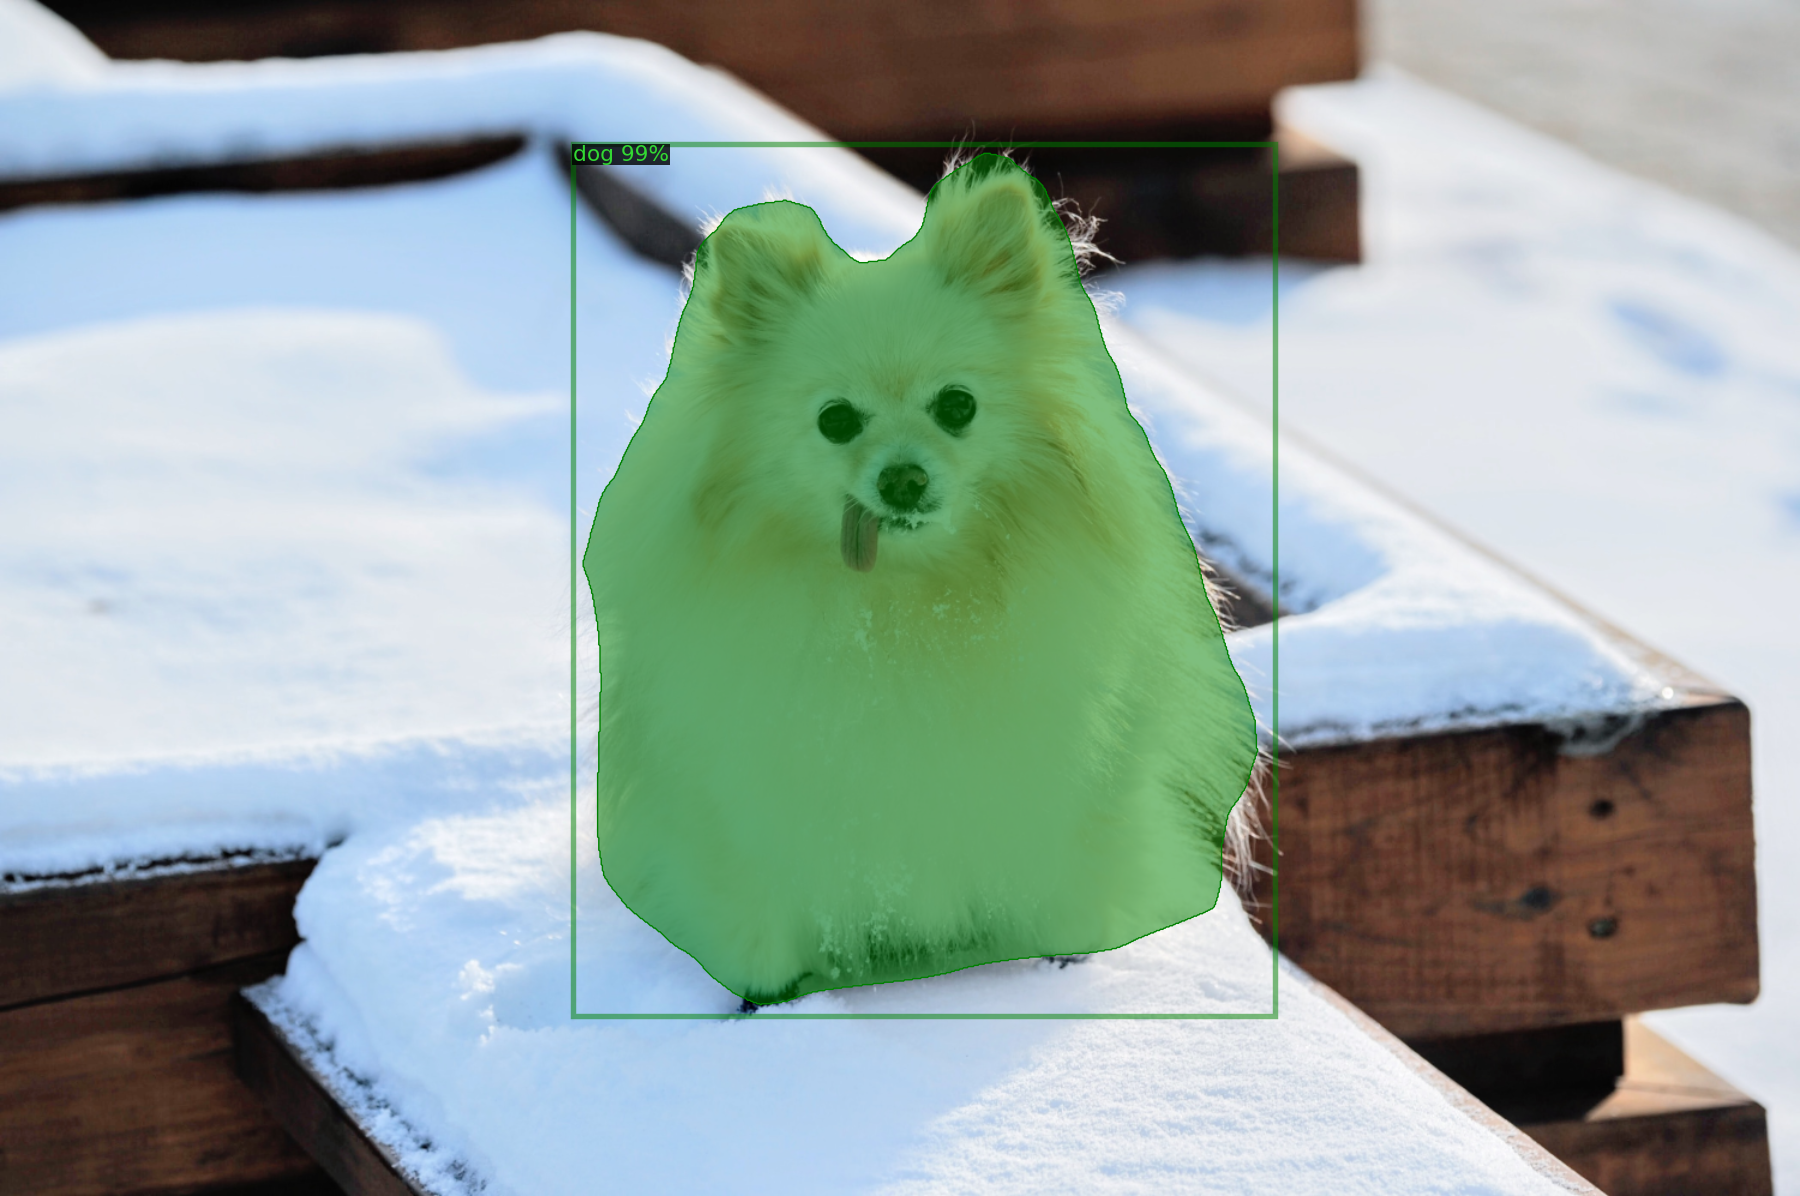
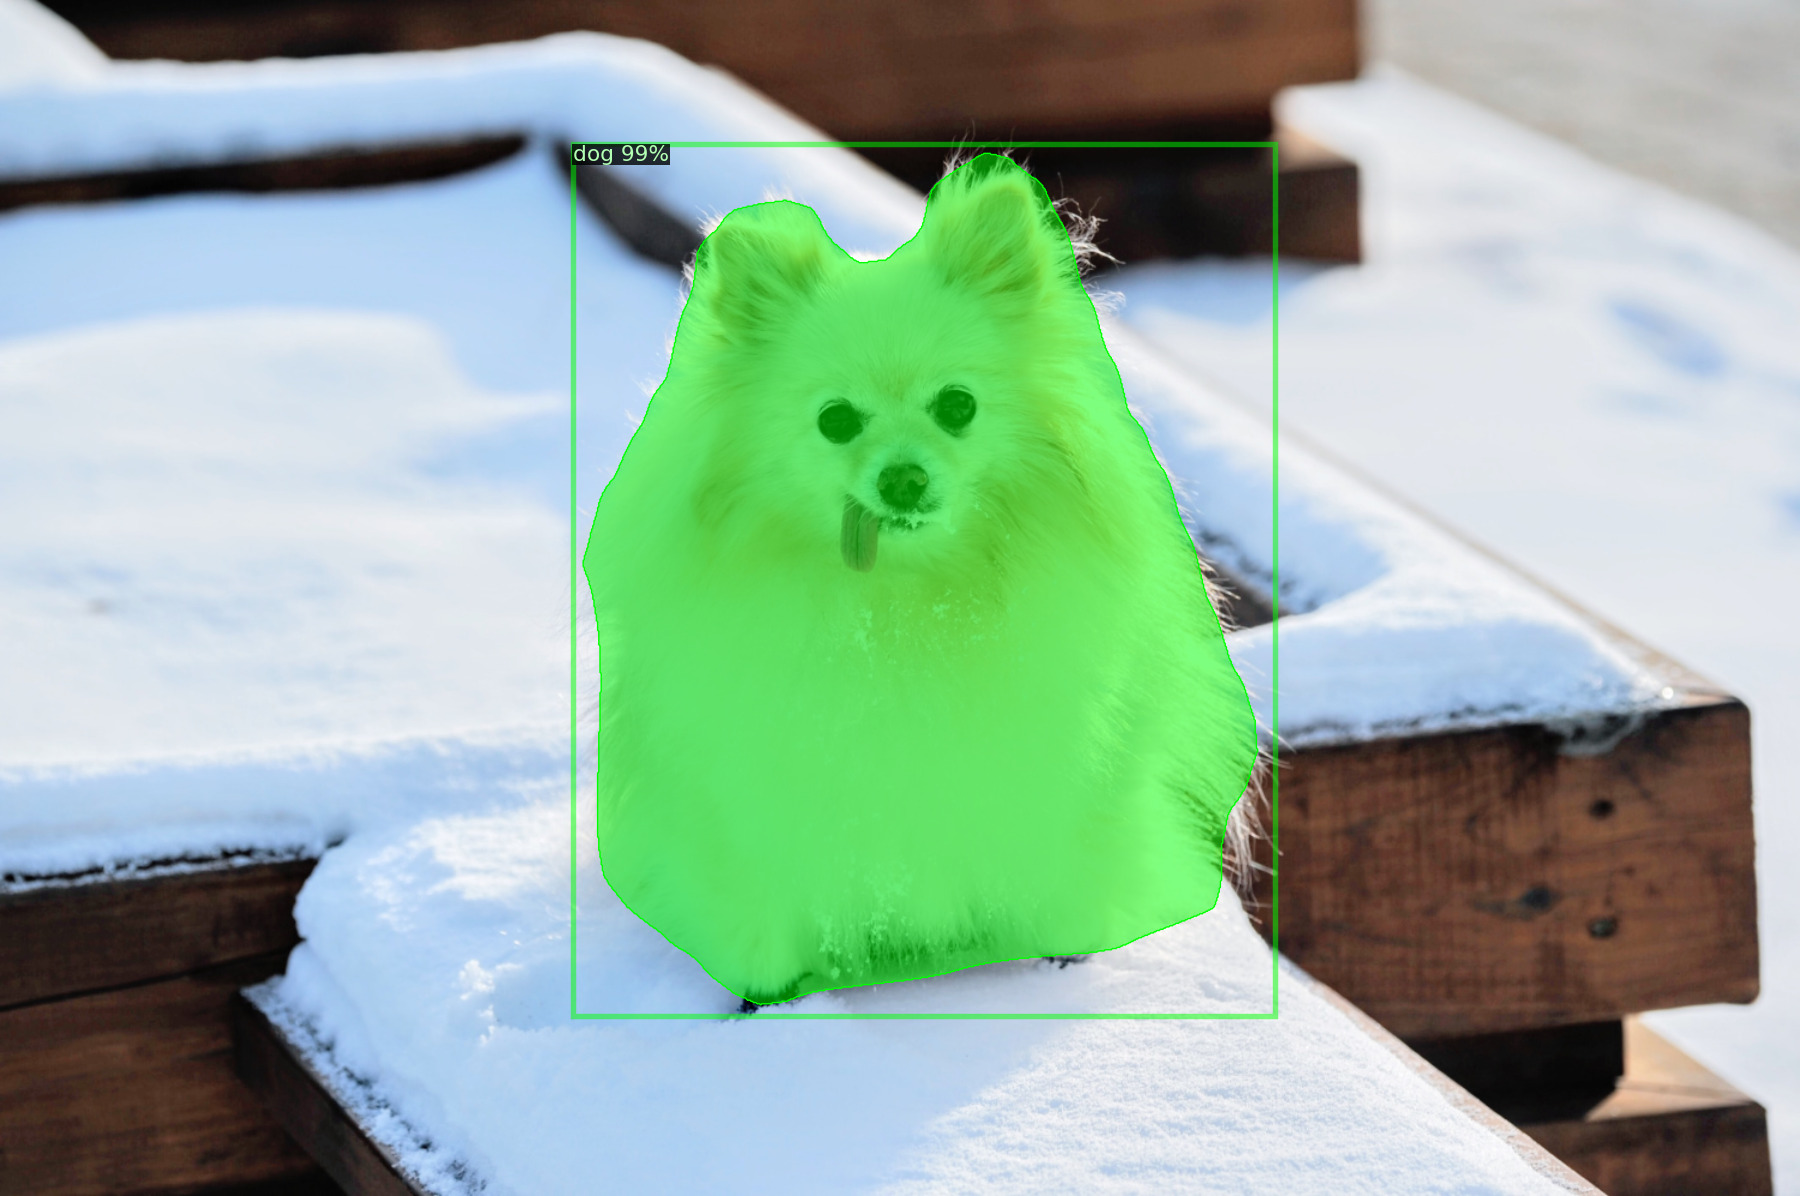
fixed pre-multiplied alpha

Changed region(s): [[0.3111, 0.0928, 0.7156, 0.8662], [0.3111, 0.1237, 0.3733, 0.1547]]

diff --git a/pipeline/pipe.py b/pipeline/pipe.py
@@ -69,9 +69,9 @@ class Pipeline:
         logging.debug('Coarse stage takes: {} seconds!'.format(end - start))
         
         self.save(instances, 'instance_preds', self.instances) 
-        self.save(subj.astype(int)*255, 'subj_pred', self.subjs)
+        self.save(subj*255, 'subj_pred', self.subjs)
 
-        return subj.astype(float), size
+        return subj, size
     
 
     def to_trimap_stage(self, subj, size):
@@ -89,7 +89,9 @@ class Pipeline:
     def to_refinement_stage(self, trimap, img):
         start = time.time()
         
-        fg, alpha, matte = self.refinement_stage.process(trimap, img)
+        fg, alpha = self.refinement_stage.process(trimap, img)         
+        matte = cv2.cvtColor(fg, cv2.COLOR_RGB2RGBA) 
+        matte[:, :, 3] = alpha
         
         end = time.time()
         logging.debug('Refinement stage takes: {} seconds!'.format(end - start))

diff --git a/pipeline/refinement_stage.py b/pipeline/refinement_stage.py
@@ -39,12 +39,8 @@ class RefinementStage:
         img = img/255.0
     
         fg, alpha = self.pred(img, fba_trimap, self.model)
-        
-        matte = fg*alpha[:, :, None]
-        matte = cv2.cvtColor(matte, cv2.COLOR_RGB2RGBA) 
-        matte[:, :, 3] = alpha
 
-        return fg, alpha, matte
+        return fg, alpha
         
 
     def pred(self, img, trimap, model):
